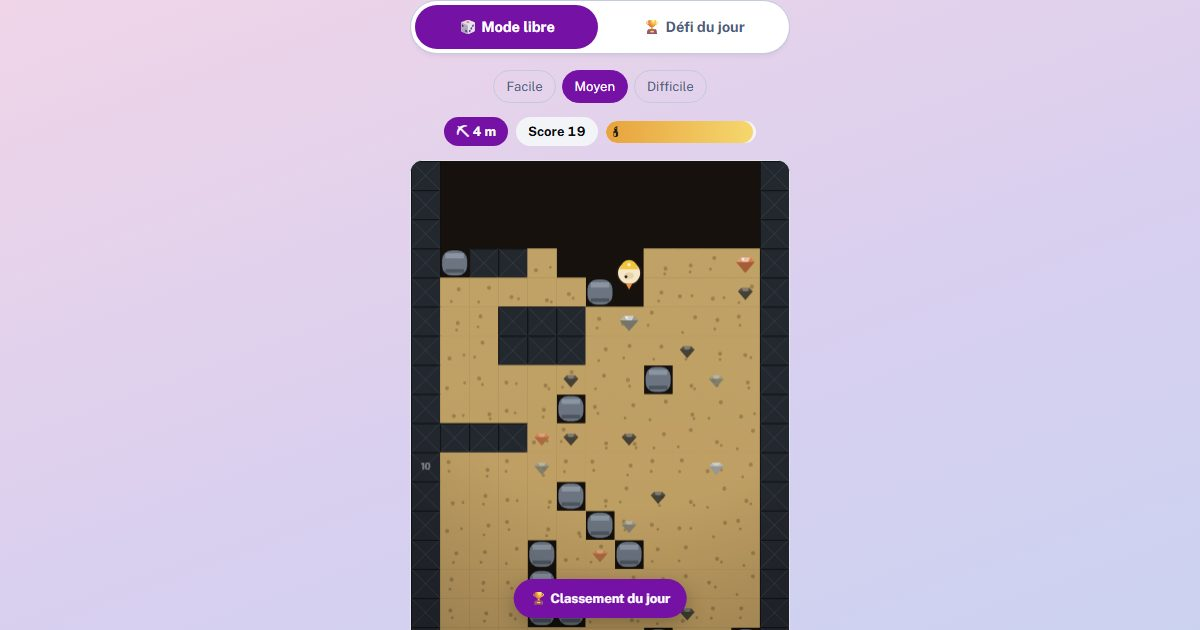
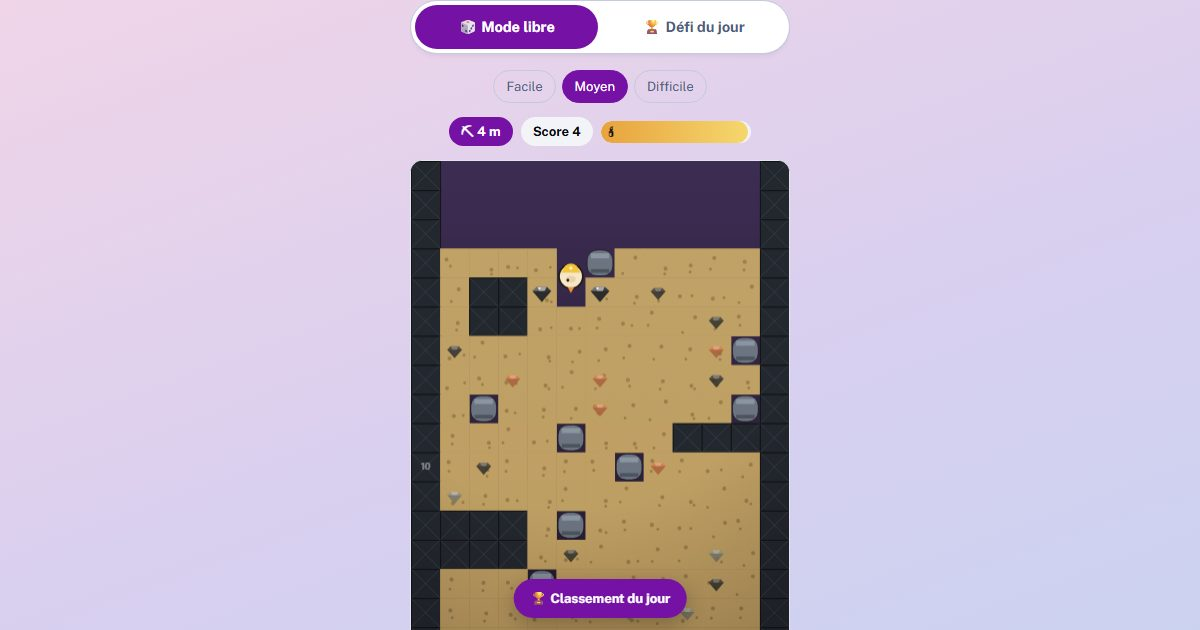
[CHANGED] Cocotte Mineuse: mobile d-pad no text-select + atmospheric background
D-pad arrow buttons no longer trigger text selection / callout on long-press
(user-select + touch-callout none), so held-to-move is not interrupted.
Flat black cave background becomes a depth-based gradient: dusk indigo at the
surface deepening to a warm violet-dark below.

diff --git a/src/games/cocotte-mineuse/CocotteMineuseGame.tsx b/src/games/cocotte-mineuse/CocotteMineuseGame.tsx
@@ -73,6 +73,14 @@ const sandDark = (depth: number): string => {
 	const l = 46 - Math.min(26, depth * 0.11);
 	return `hsl(${h} 34% ${l}%)`;
 };
+/* Lerp two #rrggbb colors — for the atmospheric cave gradient behind the dirt. */
+const mixHex = (a: string, b: string, t: number): string => {
+	const ch = (s: string, i: number): number => parseInt(s.slice(i, i + 2), 16);
+	const r = Math.round(ch(a, 1) + (ch(b, 1) - ch(a, 1)) * t);
+	const g = Math.round(ch(a, 3) + (ch(b, 3) - ch(a, 3)) * t);
+	const bl = Math.round(ch(a, 5) + (ch(b, 5) - ch(a, 5)) * t);
+	return `rgb(${r} ${g} ${bl})`;
+};
 
 export default function CocotteMineuseGame({ gameId }: { gameId: string }) {
 	const [status, setStatus] = useState<Status>('ready');
@@ -126,8 +134,12 @@ export default function CocotteMineuseGame({ gameId }: { gameId: string }) {
 		const alpha = runningRef.current && !benchRef.current
 			? Math.min(1, accRef.current / diffRef.current.tickMs) : 1;
 
-		// cave background
-		ctx.fillStyle = '#16110c';
+		// cave background — dusk sky at the surface, deepening to a warm indigo dark below
+		const dt = Math.min(1, camY / 90);
+		const bg = ctx.createLinearGradient(0, 0, 0, h);
+		bg.addColorStop(0, mixHex('#3d2d54', '#0c0a14', dt));
+		bg.addColorStop(1, mixHex('#241a2a', '#08060f', dt));
+		ctx.fillStyle = bg;
 		ctx.fillRect(0, 0, w, h);
 
 		const y0 = Math.max(0, Math.floor(camY) - 1);
@@ -947,7 +959,7 @@ const CSS = `
 .game-page.gf-full .cm-help { display: none; }
 .cm-canvas {
   width: 100%; aspect-ratio: ${COLS} / ${VISIBLE_ROWS}; display: block;
-  background: #16110c; border: 1px solid var(--gray-800); border-radius: 12px;
+  background: #2a1f38; border: 1px solid var(--gray-800); border-radius: 12px;
   touch-action: none; -webkit-tap-highlight-color: transparent; -webkit-touch-callout: none; user-select: none;
 }
 .cm-canvas.blurred { filter: blur(9px); }
@@ -955,10 +967,12 @@ const CSS = `
 .cm-dpad {
   position: absolute; right: 10px; bottom: 10px; z-index: 3;
   display: grid; grid-template-columns: repeat(3, 44px); grid-template-rows: repeat(3, 44px);
+  -webkit-user-select: none; user-select: none; -webkit-touch-callout: none;
 }
 .cm-dbtn {
   border: none; border-radius: 12px; background: rgba(255,255,255,0.16); color: #fff;
   font-size: 17px; cursor: pointer; backdrop-filter: blur(3px); -webkit-tap-highlight-color: transparent; touch-action: none;
+  -webkit-user-select: none; user-select: none; -webkit-touch-callout: none;
 }
 .cm-dbtn:active { background: rgba(255,255,255,0.35); }
 .cm-dbtn.up { grid-area: 1 / 2; }